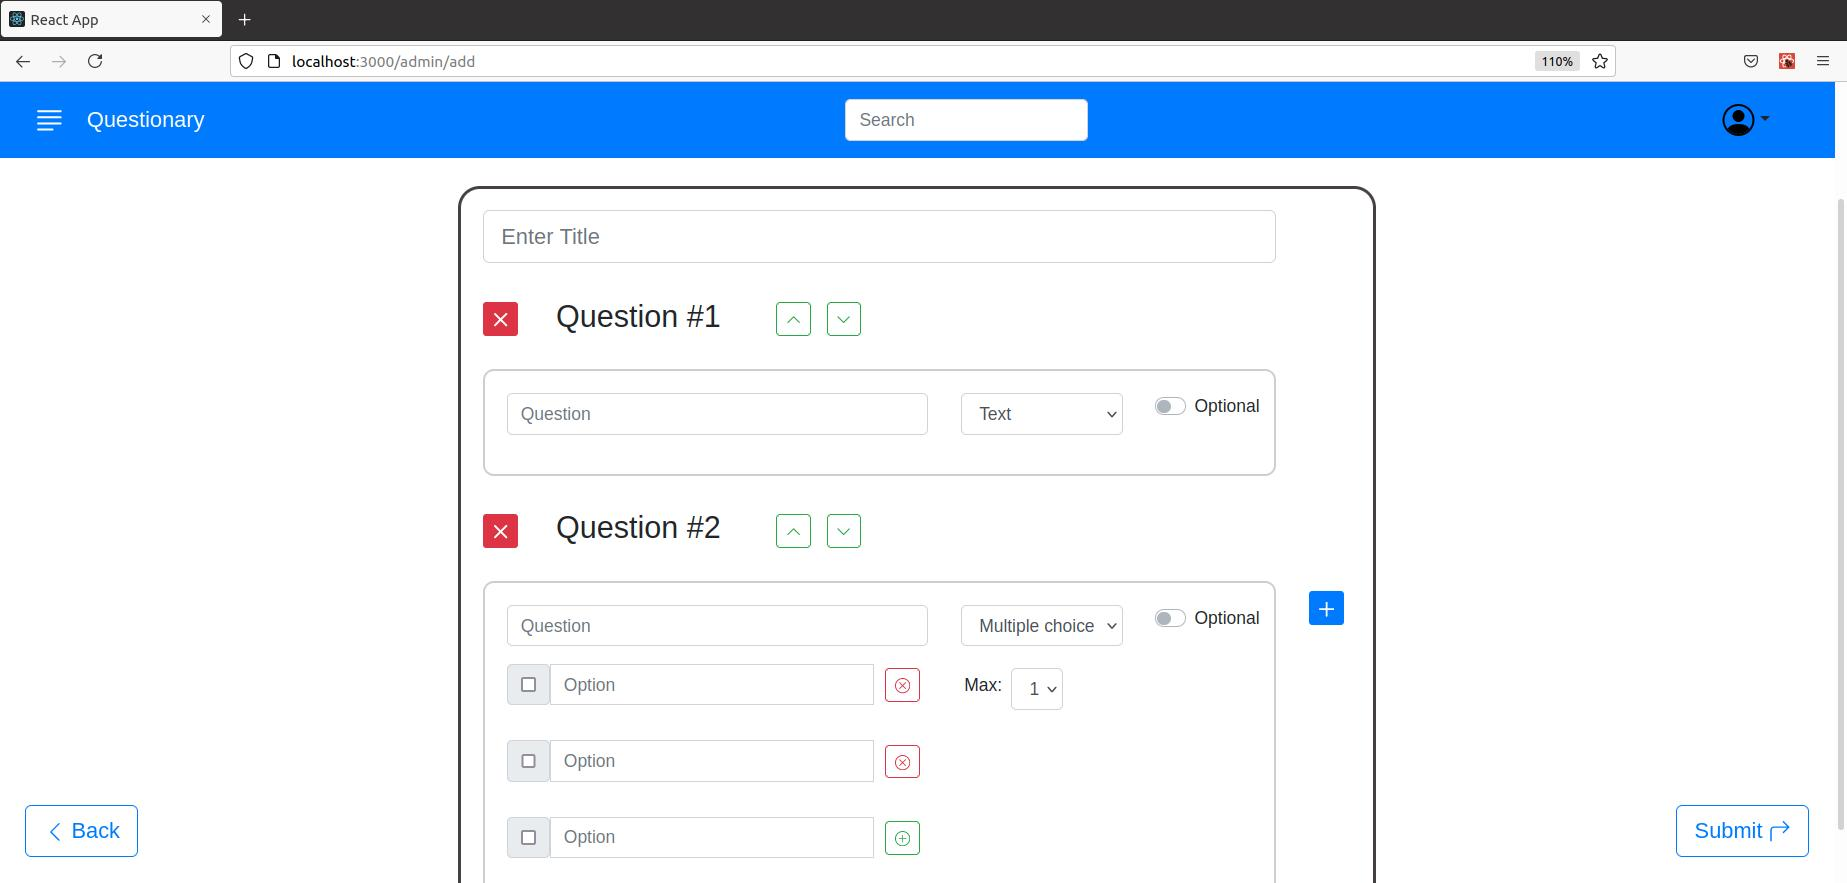
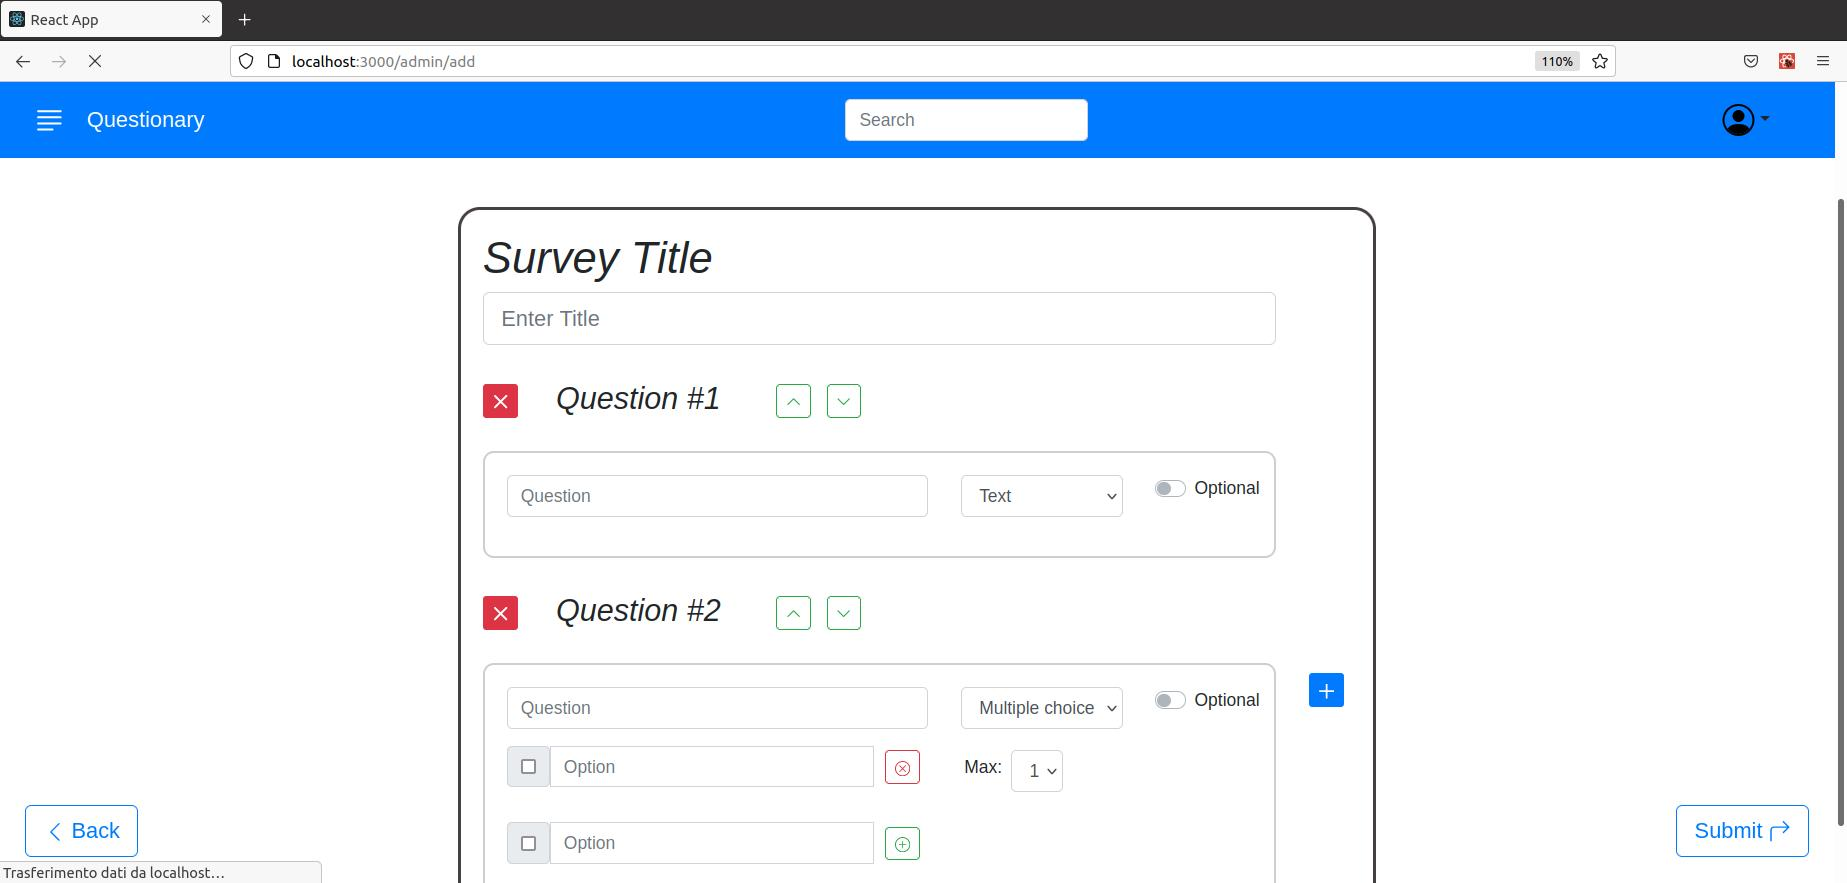
screenshot

diff --git a/client/src/components/FormCreationPage.js b/client/src/components/FormCreationPage.js
@@ -87,7 +87,7 @@ function Questionary(props) {
 
     return <Container fluid>
         <Row className="justify-content-center below-nav">
-            <h1>Create a new Survey</h1>
+            <h1 className="display-4">Create a new Survey</h1>
         </Row>
         <Row className="justify-content-center vheight-100 below-nav">
             <Col sm={3}></Col>
@@ -96,7 +96,9 @@ function Questionary(props) {
                 <Form>
                     <Row>
                         <Col sm={11}>
+                            <h1 className="font-italic">Survey Title</h1>
                             <Form.Group controlId="formTitle">
+
                                 <Form.Control required size="lg" type="text" isInvalid={errors.titleError ? true : false} placeholder="Enter Title" value={title} onChange={(ev) => handleTitle(ev)} />
                                 <Form.Control.Feedback type="invalid">Please enter a title</Form.Control.Feedback>
                             </Form.Group>
@@ -286,9 +288,9 @@ function Question(props) {
                             </div>
                         </Col>
                     </Form.Group>
-                    {props.question.type === 1 ? 
-                        props.question.choices.map((c) => 
-                            <MultipleChoiceRow key={`choice-${props.question.id}-${c.id}`} errors={props.errors ? props.errors.cId : ''} deleteChoice={deleteChoice} nChoices={questionChoices.length} choice={c} addChoice={addChoice} handleChoice={handleChoice} handleMax={handleMax}></MultipleChoiceRow>) 
+                    {props.question.type === 1 ?
+                        props.question.choices.map((c) =>
+                            <MultipleChoiceRow key={`choice-${props.question.id}-${c.id}`} errors={props.errors ? props.errors.cId : ''} deleteChoice={deleteChoice} nChoices={questionChoices.length} choice={c} addChoice={addChoice} handleChoice={handleChoice} handleMax={handleMax}></MultipleChoiceRow>)
                         : <></>}
                 </div>
             </Col>
@@ -307,7 +309,7 @@ function QuestionControl(props) {
             <Button type="button" size="sm" className="mt-1 btn-danger outline-light" onClick={() => props.deleteQuestion(props.question.id)}><XLg /></Button>
         </Col>
         <Col sm={3} className="mb-3">
-            <h3 className="mb-3">{`Question #${props.question.id}`}</h3>
+            <h3 className="mb-3 font-italic">{`Question #${props.question.id}`}</h3>
         </Col>
         <Col>
             <Row>
